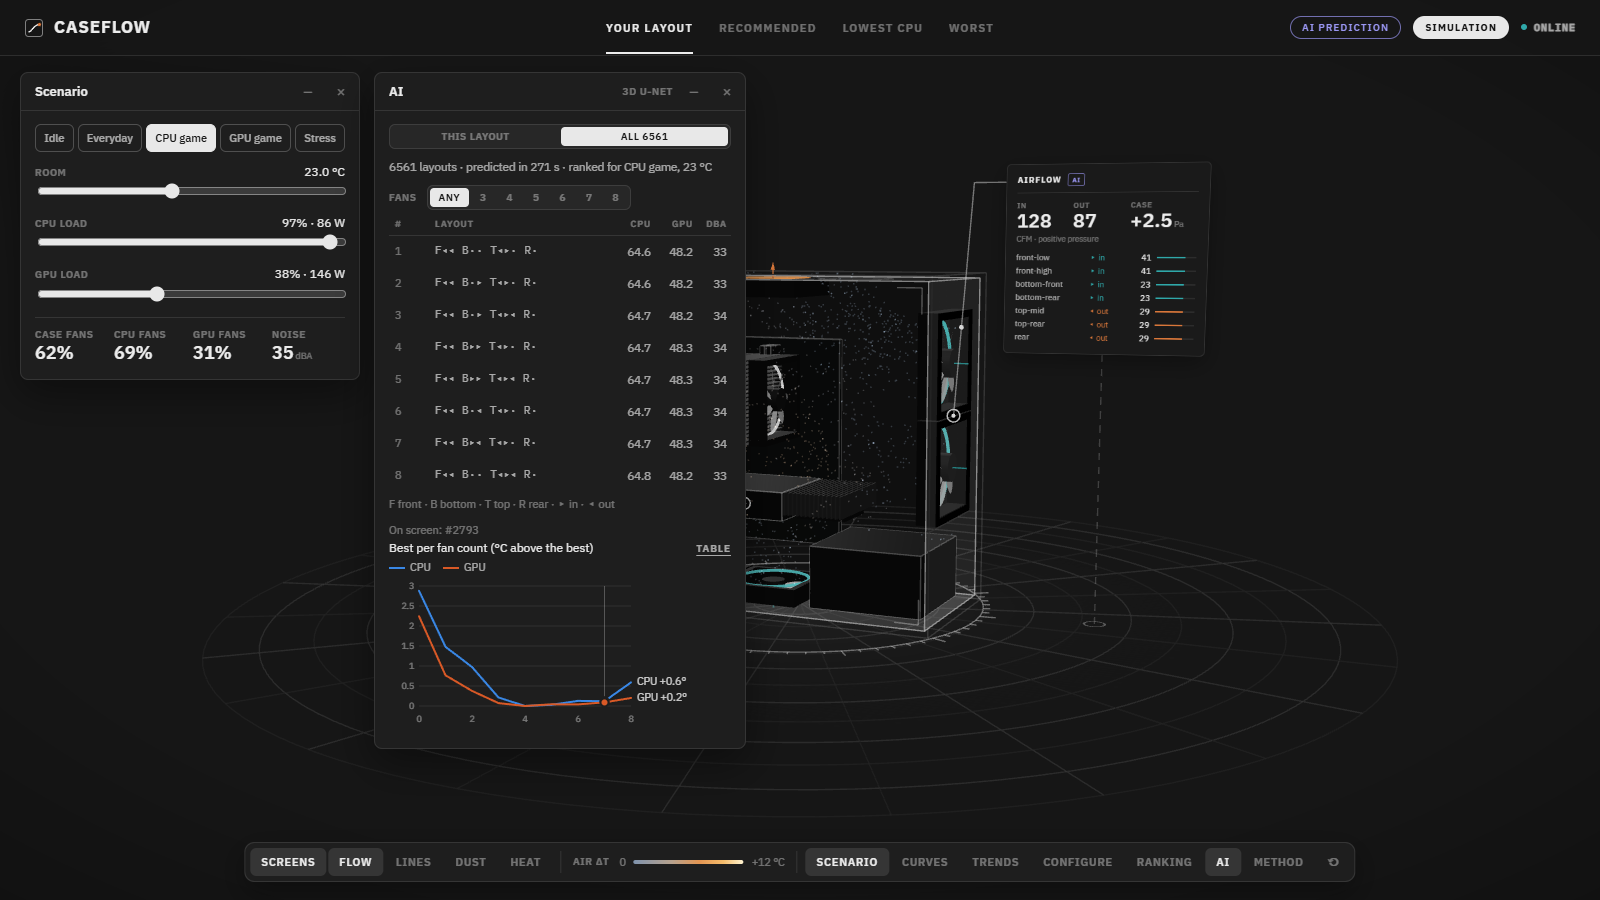
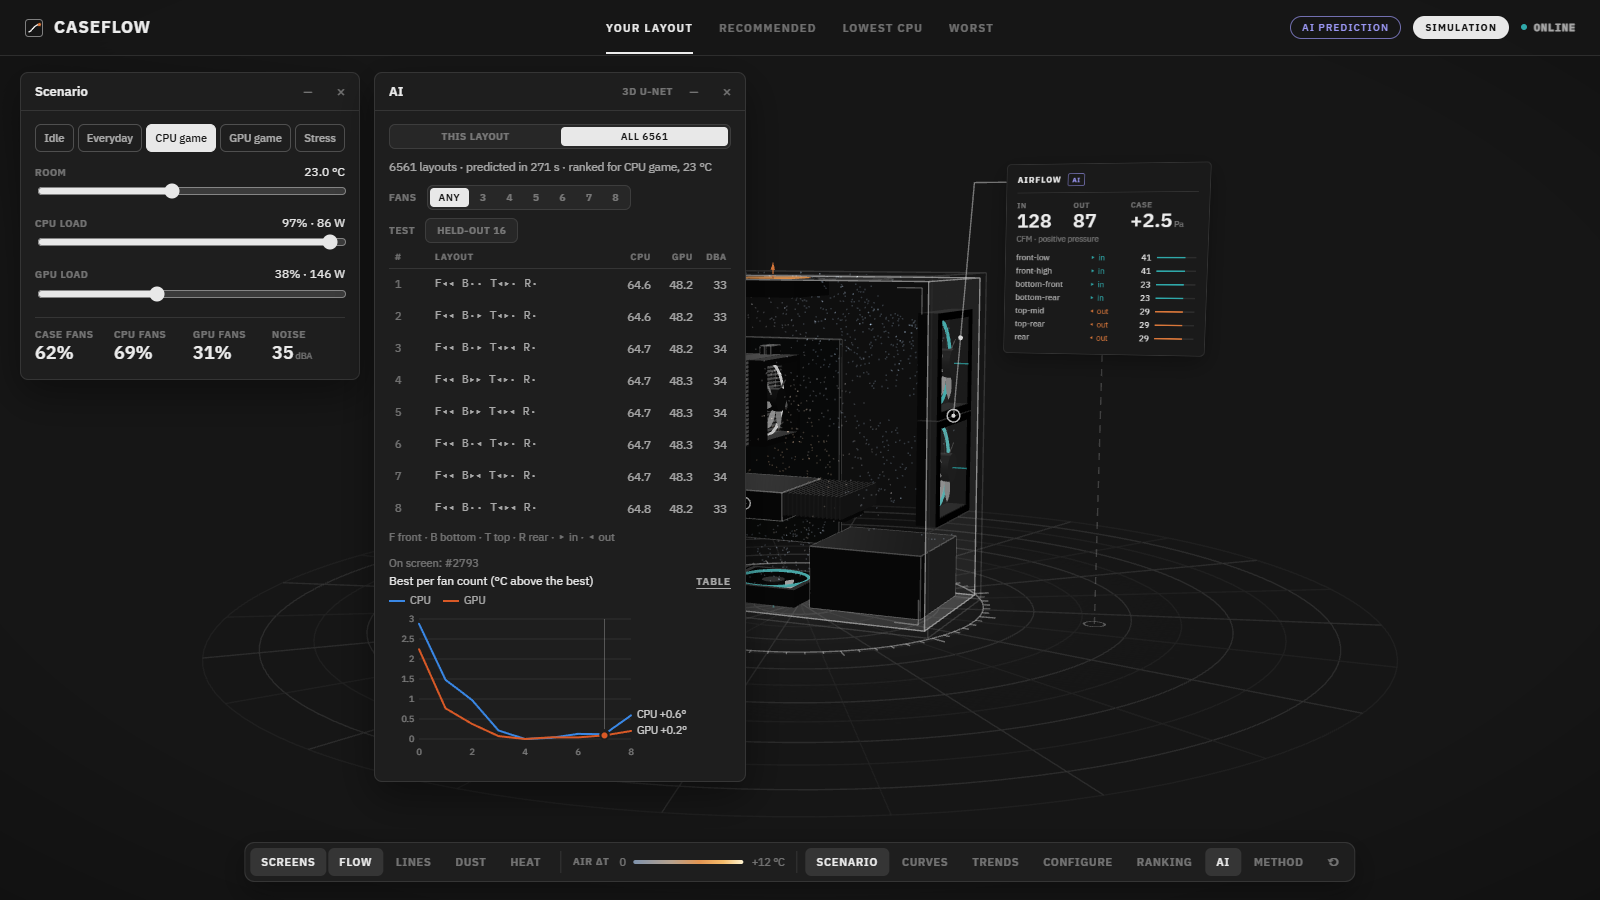
CaseFlow docs: training layouts test nothing; the held-out filter
- GUIDE 7.5: on the training layouts the network matches the simulation
  to 0.01 degC, so only the held-out layouts count.
- GUIDE 7.7 and README: the caption under AI PREDICTION, and the AI
  window's held-out filter.
- The comparison screenshots now show a held-out layout (CPU -0.9 degC).

diff --git a/README.md b/README.md
@@ -157,11 +157,11 @@ A simulation takes about 90 s. The 8 fan mounts, each off / in / out, give 3⁸ 
 | **Data** | 150 layouts: the 32 of the search, the no-fan case and 117 random ones (fixed seed), each at 3 case-fan speeds: 400 training samples. Fan models per mount as on the reference PC. Every 7th random layout (16) is **held out** as a test. `scripts/gen_surrogate_data.py`, 4.1 h of GPU time, resumable. 34 of the random layouts (exhaust fans next to the small rear vent) blow up the LBM; they are rerun with a velocity limiter (4.5 m/s) and flagged. |
 | **Network** | `engine/surrogate.py`. Input: 80 × 40 × 80 voxels × 8 channels (solid, outside air, fan cells, the fans' air velocity, CPU / GPU heat zones) + coordinates. 3D U-Net: residual 3×3×3 conv blocks with group norm and GELU, four halvings to 5 × 3 × 5 (the deepest features see the whole case) and back with skip connections; 13.5 M weights. Output: air velocity and the rise per watt of CPU and GPU power as log1p(k / 5 mK/W). The fans' operating points stay analytical. |
 | **Training** | Squared error on the air in the case, plus the rises at the CPU and GPU intakes (they set the part temperatures). AdamW, one-cycle, bf16, 300 epochs, 35 min on an RTX 5080. `scripts/train_surrogate.py` |
-| **Test** | 16 held-out layouts × 6 scenarios: mean error **CPU 0.44 °C, GPU 0.28 °C** (worst 2.5 / 1.3 °C, on layouts unlike most training layouts, e.g. no front fans). Guessing the training layouts' average gives 1.04 / 0.74 °C. Air speed RMSE 0.20 m/s; intake rise within 10 %. |
-| **In the app** | Every layout appears as the AI's prediction (AI tags, a header chip). **Simulation** in the header slides the case left and scans the simulated case in on the right: a cached simulation in a few seconds, a new one following the run (~90 s). Cards between the two show both temperatures and the difference; a fan change ends the comparison while the simulation finishes in the background. The **AI** window compares the numbers and ranks all 6561 predicted layouts (`scripts/ai_space.py`, ~7 min) for the scenario on screen. Builds unlike the training data (other parts or fan models) get no prediction and show the simulation. |
+| **Test** | 16 held-out layouts × 6 scenarios: mean error **CPU 0.44 °C, GPU 0.28 °C** (worst 2.5 / 1.3 °C, on layouts unlike most training layouts, e.g. no front fans). Guessing the training layouts' average gives 1.04 / 0.74 °C. Air speed RMSE 0.20 m/s; intake rise within 10 %. On its 134 training layouts (the 32 searched ones among them) it matches the simulation to 0.01 °C: it has seen them, so they test nothing. |
+| **In the app** | Every layout appears as the AI's prediction (AI tags, a header chip). **Simulation** in the header slides the case left and scans the simulated case in on the right: a cached simulation in a few seconds, a new one following the run (~90 s). Cards between the two show both temperatures and the difference; a fan change ends the comparison while the simulation finishes in the background. A caption under AI PREDICTION says whether the network was trained on the layout, is seeing a held-out test layout, or a new one. The **AI** window compares the numbers and ranks all 6561 predicted layouts (`scripts/ai_space.py`, ~7 min) for the scenario on screen; its **held-out** filter lists the 16 test layouts, whose simulations are cached, so their real error shows in seconds (e.g. `00011021`: CPU 67.1 °C predicted, 68.0 °C simulated). Builds unlike the training data (other parts or fan models) get no prediction and show the simulation. |
 | **Dust** | The network predicts no dust. With the Dust layer on, the simulation's own particle tracking (the same 40 000 particles and seed) runs in the network's airflow (`/api/ai/dust`, ~8 s on the GPU, cached). On the 16 held-out layouts × 3 fan speeds, the share of incoming dust that settles is within 1.9 points on average, the surface that gets the most matches in 47 of 48, and the dust rate in the CPU-heavy game is within 5 % (rank correlation 0.94). `scripts/ai_dust_check.py` |
 
-![The network's case and the simulated one side by side](docs/screens/caseflow_compare.png)
+![A held-out layout: the network's case and the simulated one side by side](docs/screens/caseflow_compare.png)
 
 ![Network against simulation on held-out layouts](docs/media/fig_ai_parity.png)
 

diff --git a/docs/GUIDE.md b/docs/GUIDE.md
@@ -413,6 +413,7 @@ $$
 - CPU 略微偏低：平均 −0.3 °C（中位数 −0.1 °C）。
 - **最难的是和训练装法不太像的**：误差最大的 4 种都是前面风扇很少或没有的装法，比如 `---ii-oi`（前面没风扇，底部后、顶部前、后部进风，顶部后出风），CPU 最多差 2.5 °C。其余 12 种 CPU 最多差 0.8 °C。用了限速器的 2 种考试装法误差并不大。
 - 作为参照，bank 方法本身（即时求解 vs 完整模拟）的误差是 0.5 °C 以内（第 9 章）。
+- **训练装法不算数**：默认场景下，134 种训练装法上网络和模拟平均差 0.00 °C、最多 0.01 °C。网络见过它们，几乎是背下来的，说明不了它对没见过的装法准不准。所以成绩只看考试装法。32 种搜索装法（也就是界面里的四个视图）都是训练装法。
 
 一种考试装法的切片，网络从没见过它：
 
@@ -457,12 +458,14 @@ $$
   - 算过的装法（32 种、训练用的 150 种等）直接读缓存，扫描约 4 秒；没算过的现场模拟约 90 秒，扫描跟着模拟的进度走，标题显示 SIMULATING 47%。
   - 扫描完，右边出现模拟的气流、温度和积灰；中间的卡片并排显示两边的 CPU / 显卡温度、进风温升和差值（打开 Dust 时还有积灰对比），每张卡片用两根引线分别连到两边机箱的同一个部件。
   - 改场景或风扇曲线：两边一起变。改风扇（换了装法）：退出对比，模拟在后台算完并存下来，回到这个装法再点就只要几秒。BACK 或 Esc 回到单个机箱。
+  - 左边标题下面写着**网络有没有见过这个装法**：TRAINED ON THIS LAYOUT（训练装法，两边几乎一样，见 7.5）、HELD-OUT TEST LAYOUT（考试装法）、NEW TO THE NETWORK（全新装法）。
+  - 要看网络的真实误差：AI 窗口 All 6561 里点 **held-out 16**，只列出 16 种考试装法；打开一种再点 SIMULATION。它们都模拟过，几秒就出来，比如 `00011021`：AI 67.1 °C，模拟 68.0 °C。
 - 底部 **AI** 按钮打开 AI 窗口：
   - **This layout**：网络和模拟各算的 CPU / 显卡温度和差值（没算过的装法模拟一栏是“—”）；Compare in 3D 打开并排对比；下面是三行模型卡。
-  - **All 6561**：网络把 6561 种装法全部预测好（`scripts/ai_space.py`，约 5 分钟），浏览器按当前场景在后台线程里排名（约 2 秒），可以按风扇数筛选，还有“每种风扇数最好能到多少度”的图。点一行就打开那种装法（先看网络的预测，需要时再验证）。
+  - **All 6561**：网络把 6561 种装法全部预测好（`scripts/ai_space.py`，约 5 分钟），浏览器按当前场景在后台线程里排名（约 2 秒），可以按风扇数筛选，或者只看 16 种考试装法（held-out），还有“每种风扇数最好能到多少度”的图。点一行就打开那种装法（先看网络的预测，需要时再验证）。
 - 换了其他机箱、显卡、散热器或风扇型号，网络没学过，就不预测（会说明原因），显示模拟（顶栏标 SIMULATION；没算过的点 SIMULATE 现场算）。
 
-| 扫描中：模拟的机箱一层层画出来 | 扫描完：AI 和模拟并排 |
+| 扫描中：模拟的机箱一层层画出来（考试装法 `00011021`） | 扫描完：网络没见过它，CPU 差 −0.9 °C |
 |---|---|
 | ![扫描中](screens/caseflow_compare_scan.png) | ![并排对比](screens/caseflow_compare.png) |
 
